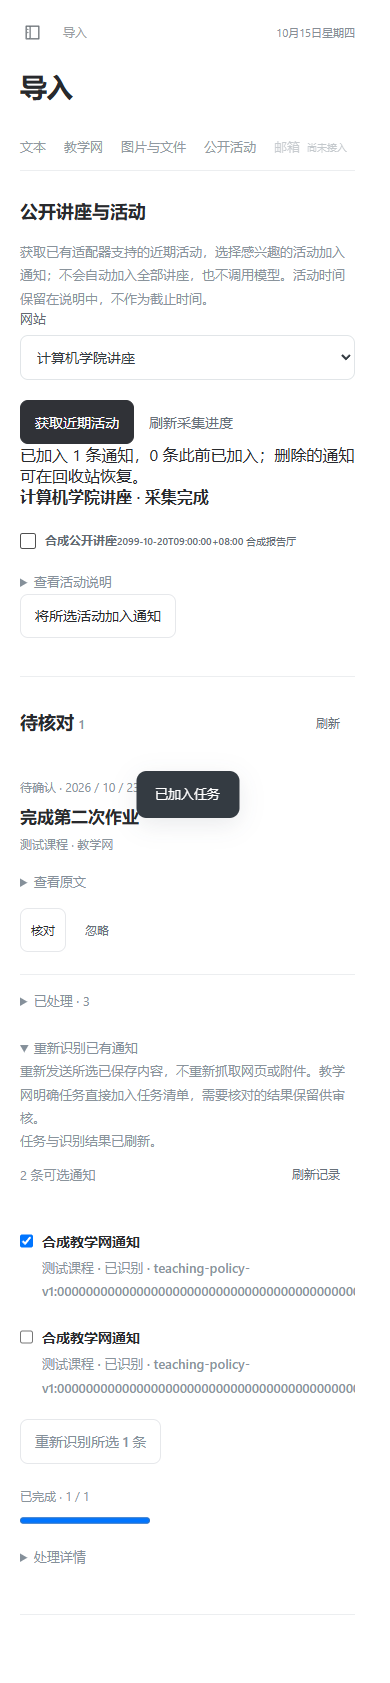
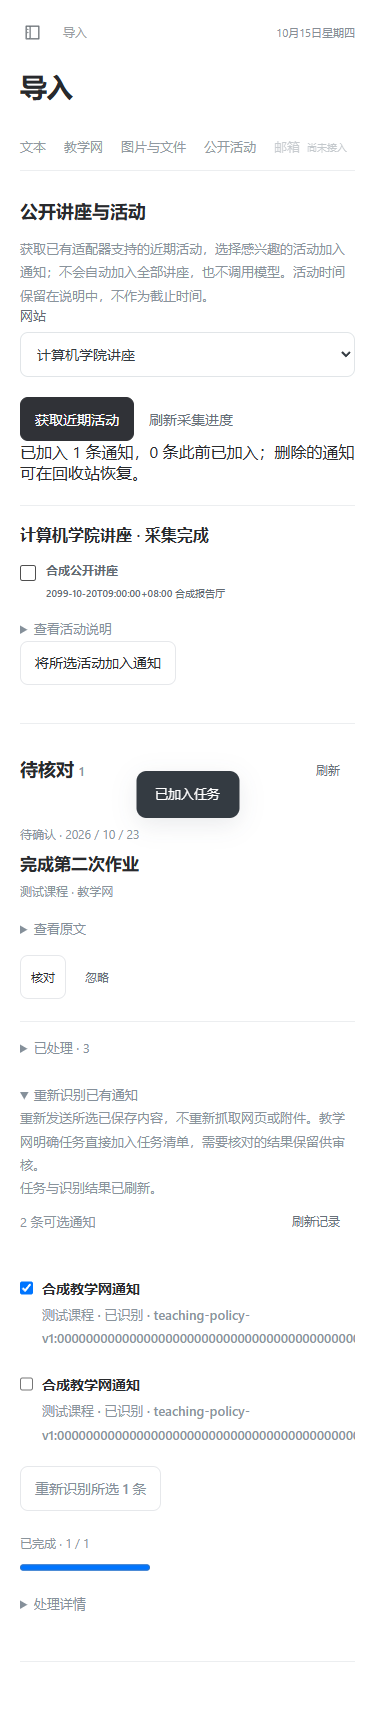
test: verify complete import flows in real browser

diff --git a/frontend/src/styles.css b/frontend/src/styles.css
@@ -1380,6 +1380,7 @@ dialog p {
 }
 .import-source-tabs {
   display: flex;
+  flex-wrap: wrap;
   align-items: center;
   gap: 20px;
   border-bottom: 1px solid var(--line);
